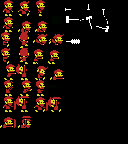
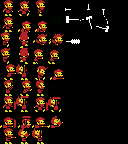
directional weapon control works (firing bullets not yet)

Changed region(s): [[0.125, 0.8056, 0.5, 1.0], [0.0312, 0.8611, 0.125, 1.0], [0.2812, 0.5, 0.3125, 0.5278]]

diff --git a/java/src/xspelunker2/GenerateSprites.java b/java/src/xspelunker2/GenerateSprites.java
@@ -34,28 +34,28 @@ public class GenerateSprites {
         List<Integer> data = new ArrayList<>();
         List<Integer> dataLeft = new ArrayList<>();
         
-        // Standing right:
+        // Standing right: 0, 1
         addPlayerFrame(sourceImage, 0, 0, data, dataLeft);
         addPlayerFrame(sourceImage, 0, 16, data, dataLeft);
-        // Walk:
+        // Walk: 2, 3
         addPlayerFrame(sourceImage, 16, 0, data, dataLeft);
         addPlayerFrame(sourceImage, 32, 0, data, dataLeft);
-        // Crawl:
+        // Crawl: 4, 5
         addPlayerFrame(sourceImage, 16, 16, data, dataLeft);
         addPlayerFrame(sourceImage, 32, 16, data, dataLeft);
-        // Climb ropes:
+        // Climb ropes: 6, 7
         addPlayerFrame(sourceImage, 0, 32, data, dataLeft);
         addPlayerFrame(sourceImage, 0, 48, data, dataLeft);
-        // Climb stairs:
+        // Climb stairs: 8, 9
         addPlayerFrame(sourceImage, 16, 32, data, dataLeft);
         addPlayerFrame(sourceImage, 16, 48, data, dataLeft);
-        // Swim:
+        // Swim: 10, 11
         addPlayerFrame(sourceImage, 32, 32, data, dataLeft);
         addPlayerFrame(sourceImage, 48, 32, data, dataLeft);
-        // Push:
+        // Push: 12, 13
         addPlayerFrame(sourceImage, 32, 48, data, dataLeft);
         addPlayerFrame(sourceImage, 48, 48, data, dataLeft);
-        // weapon swings:
+        // weapon swings: 14, ..., 20
         addPlayerFrame(sourceImage, 0, 64, data, dataLeft);
         addPlayerFrame(sourceImage, 16, 64, data, dataLeft);
         addPlayerFrame(sourceImage, 32, 64, data, dataLeft);
@@ -63,13 +63,19 @@ public class GenerateSprites {
         addPlayerFrame(sourceImage, 0, 80, data, dataLeft);
         addPlayerFrame(sourceImage, 16, 80, data, dataLeft);
         addPlayerFrame(sourceImage, 32, 80, data, dataLeft);
-        // shield:
+        // shield: 21, ..., 26
         addPlayerFrame(sourceImage, 0, 96, data, dataLeft);
         addPlayerFrame(sourceImage, 16, 96, data, dataLeft);
         addPlayerFrame(sourceImage, 32, 96, data, dataLeft);
         addPlayerFrame(sourceImage, 48, 96, data, dataLeft);
         addPlayerFrame(sourceImage, 0, 112, data, dataLeft);
         addPlayerFrame(sourceImage, 16, 112, data, dataLeft);
+        // directional: 27, ..., 32
+        addPlayerFrame(sourceImage, 0, 128, data, dataLeft);
+        addPlayerFrame(sourceImage, 16, 128, data, dataLeft);
+        addPlayerFrame(sourceImage, 32, 128, data, dataLeft);
+        addPlayerFrame(sourceImage, 32, 112, data, dataLeft);
+        addPlayerFrame(sourceImage, 48, 112, data, dataLeft);
         
         System.out.println("player data: " + data.size());
         System.out.println("player dataLeft: " + dataLeft.size());
